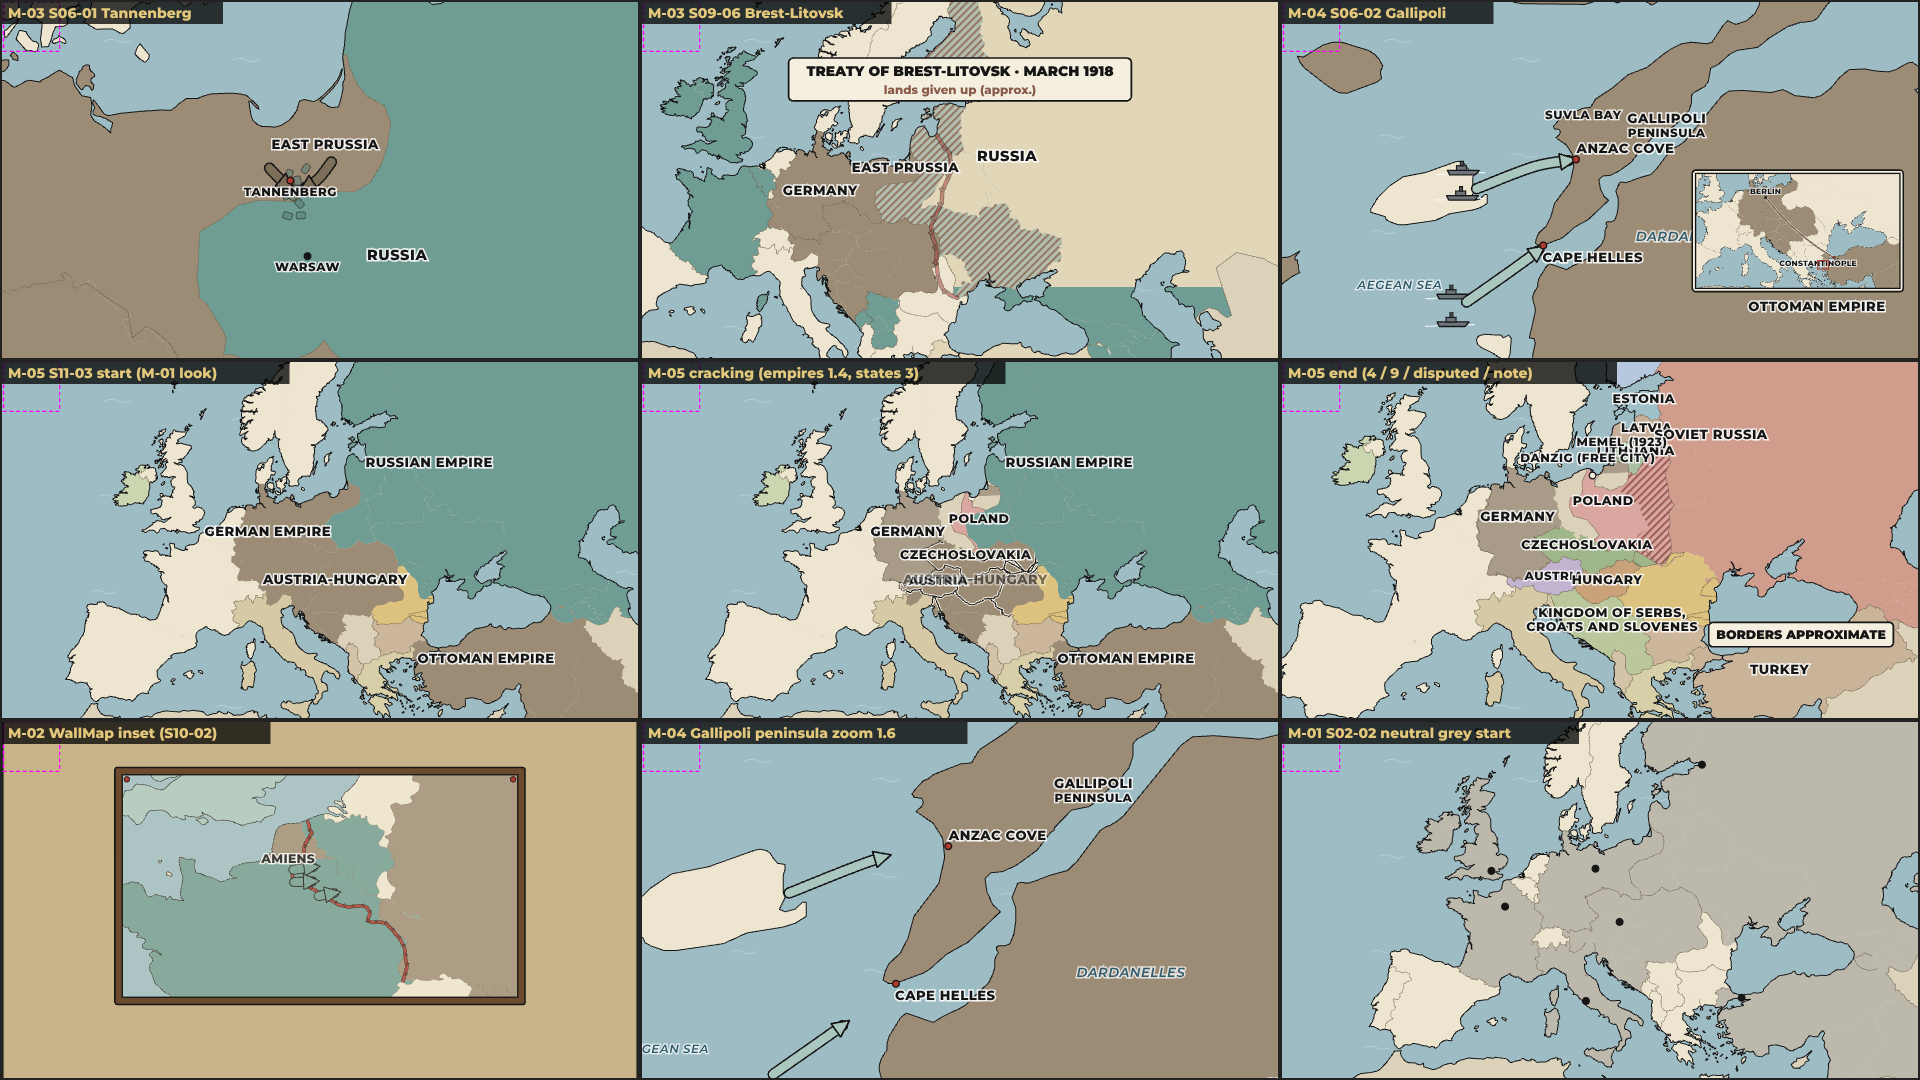
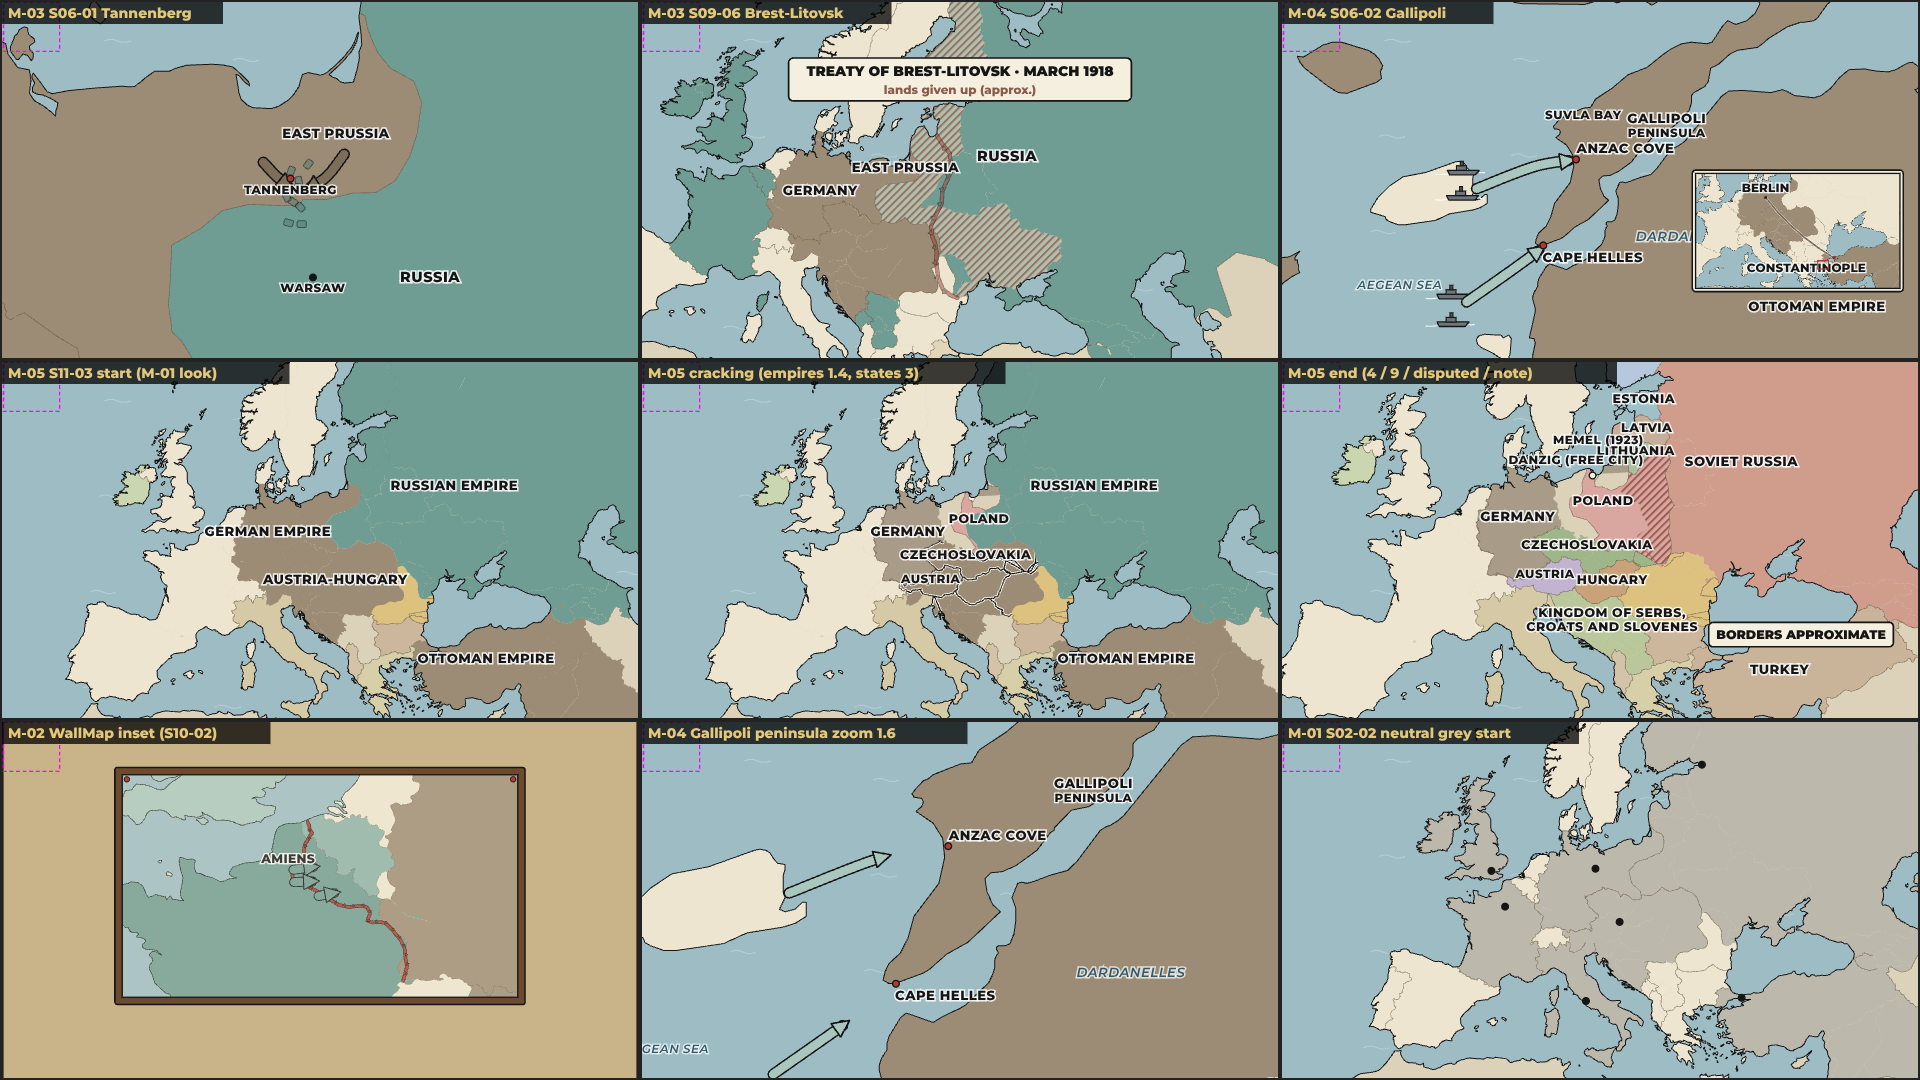
ep02-ww1: environments and narration work in progress
Claude-Session: https://claude.ai/code/session_01HvVEsYDgcgQobPUX4ZdqCo

diff --git a/the-human-story/episode-02-ww1/src/components/env/Trench.tsx b/the-human-story/episode-02-ww1/src/components/env/Trench.tsx
@@ -456,7 +456,7 @@ const MudView: React.FC<TrenchProps & {f: number; tone: Tone; time: TimeOfDay; w
       ))}
       {/* receding duckboard track */}
       {(() => {
-        const pts: [number, number, number][] = [[1500, 850, 1], [1300, 760, 0.8], [1180, 680, 0.62], [1000, 610, 0.48], [820, 560, 0.38], [700, 520, 0.3], [560, 490, 0.24], [460, 468, 0.2]];
+        const pts: [number, number, number][] = [[1500, 850, 1], [1260, 772, 0.8], [1340, 702, 0.64], [1090, 632, 0.5], [1160, 578, 0.4], [920, 530, 0.32], [980, 496, 0.26], [780, 468, 0.2]];
         return (
           <g>
             {pts.slice(0, -1).map((a, i) => {
@@ -631,7 +631,7 @@ const DugoutView: React.FC<TrenchProps & {f: number; tone: Tone}> = (p) => {
   const {f} = p;
   const D = DUGOUT;
   const breathe = 0.85 + 0.15 * noise1(f / 9, 4);
-  const tone = (c: string) => mixc(c, '#1A140E', 0.35);
+  const tone = (c: string) => mixc(c, '#1A140E', 0.25);
   return (
     <g>
       <rect x={-200} y={-200} width={W + 400} height={H + 400} fill={tone('#5A4632')} />
@@ -681,7 +681,7 @@ const DugoutView: React.FC<TrenchProps & {f: number; tone: Tone}> = (p) => {
         </radialGradient>
         <radialGradient id="dugout-dark" cx="0.62" cy="0.7" r="0.75">
           <stop offset="0.35" stopColor="#000" stopOpacity={0} />
-          <stop offset="1" stopColor="#000" stopOpacity={0.55} />
+          <stop offset="1" stopColor="#000" stopOpacity={0.45} />
         </radialGradient>
       </defs>
       <ellipse cx={D.candle[0]} cy={D.candle[1] - 40} rx={760} ry={560} fill="url(#dugout-glow)" />

diff --git a/the-human-story/episode-02-ww1/src/maps/MapsWW1.tsx b/the-human-story/episode-02-ww1/src/maps/MapsWW1.tsx
@@ -547,7 +547,7 @@ export const MapWesternFront: React.FC<WesternFrontProps> = (p) => {
                 <SafeLabel at={ts([3.5, 49.42])} dy={-26} text="THE AISNE" size={36} opacity={seg(marne, 0.75, 1)} />
               </g>
             )}
-            <CrackLabel at={ts([3.4, 48.45])} t={p.quickVictory ?? 0} id={`qv${idSuffix}`} />
+            <CrackLabel at={ts([3.75, 48.6])} t={p.quickVictory ?? 0} id={`qv${idSuffix}`} />
             {/* race to the sea */}
             {race > 0 &&
               X.RACE_PAIRS.map((pr, i) => {
@@ -610,7 +610,7 @@ export const MapWesternFront: React.FC<WesternFrontProps> = (p) => {
             {(p.labels ?? 1) > 0 && tz < 0.5 && (
               <g opacity={(p.labels ?? 1) * (1 - seg(tz, 0, 0.4))}>
                 <SafeLabel at={ts([5.05, 50.9])} text="BELGIUM" size={40} />
-                <SafeLabel at={ts([2.9, 48.25])} text="FRANCE" size={44} />
+                <SafeLabel at={ts([2.2, 47.9])} text="FRANCE" size={44} />
                 <SafeLabel at={ts([7.6, 50.3])} text="GERMANY" size={44} />
                 <SafeLabel at={ts([5.6, 52.3])} text="NETHERLANDS" size={36} />
                 {cities.map((n) => {

diff --git a/the-human-story/episode-02-ww1/src/components/VehiclesWW1.tsx b/the-human-story/episode-02-ww1/src/components/VehiclesWW1.tsx
@@ -13,11 +13,11 @@ const ink = C.ink;
 // ================================================================== V-01 touring car
 export const CAR_COLORS = {archduke: '#33503A', escort: '#2B2B30'};
 /**
- * Seat anchors (car-local px at s = 1, before dir/scale): place seated StickFigures here and draw them
- * BETWEEN <TouringCar layer="back"> and <TouringCar layer="front"> so the doors hide their legs.
- * y is the seat cushion (the figure's hip line).
+ * Seat anchors (car-local px at s = 1, facing right): the StickFigure (x, y) for a `seated` pose, i.e.
+ * figure x = car.x + seat.x * s * dir, figure y = car.y + seat.y * s, figure scale = s.  Draw the
+ * figures BETWEEN <TouringCar layer="back"> and <TouringCar layer="front"> so the doors hide their legs.
  */
-export const CAR_SEATS = {driver: {x: 95, y: -112}, rearLeft: {x: -150, y: -118}, rearRight: {x: -70, y: -118}};
+export const CAR_SEATS = {driver: {x: 95, y: -58}, rearLeft: {x: -150, y: -64}, rearRight: {x: -70, y: -64}};
 
 export type TouringCarProps = {
   x: number;

diff --git a/the-human-story/episode-02-ww1/src/maps/__preview__/SheetsWW1Env.tsx b/the-human-story/episode-02-ww1/src/maps/__preview__/SheetsWW1Env.tsx
@@ -34,7 +34,7 @@ export const WW1_VEH: Panel[] = [
   {title: 'V-01 touring car + seated passengers', el: (f) => (
     <g><Sky /><Street base={760} f={f} /><Ground y={760} color="#C9B48A" />
       <TouringCar x={900} y={900} dist={f * 6} f={f} layer="back" />
-      <Fig k="franzFerdinand" x={900 + CAR_SEATS.rearLeft.x} y={900 + CAR_SEATS.rearLeft.y + 112} f={f} pose={seated(f)} />
+      <Fig k="franzFerdinand" x={900 + CAR_SEATS.rearRight.x} y={900 + CAR_SEATS.rearRight.y} f={f} pose={seated(f)} /><Fig k="sophie" x={900 + CAR_SEATS.rearLeft.x} y={900 + CAR_SEATS.rearLeft.y} f={f} pose={seated(f)} /><Fig k="britSoldier1914" x={900 + CAR_SEATS.driver.x} y={900 + CAR_SEATS.driver.y} f={f} pose={seated(f)} />
       <TouringCar x={900} y={900} dist={f * 6} f={f} layer="front" />
     </g>)},
   {title: 'V-01 escort colour + turn-in 0.7', el: (f) => (

diff --git a/production/reports/handoffs/ep02-ww1/09-environment-designer.md b/production/reports/handoffs/ep02-ww1/09-environment-designer.md
@@ -1,0 +1,44 @@
+# Handoff — ep02-ww1 — 09 environment designer (Phase C: sets, maps, vehicles)
+
+- **From:** environment-designer
+- **To:** director (cc: video-editor, animator, quality-control)
+- **Date:** 2026-11-17
+- **Status:** AWAITING REVIEW
+
+## Deliverables
+- `the-human-story/episode-02-ww1/src/maps/MapsWW1.tsx`: **M-01** `MapEurope1914`, **M-02** `MapWesternFront` + `WesternFrontWallMap`, **M-03** `MapEasternFront`, **M-04** `MapGallipoli` (with inset), **M-05** `MapEurope1919` (crack, fade and morph from M-01), camera presets `CAM_1914`, `CAM_WF`, `CAM_EF`, `CAM_GP`, `CAM_1919`, and `SafeLabel` (drops labels in the logo zone).
+- `the-human-story/episode-02-ww1/src/maps/ww1.ts`: 1914 and 1919–23 state definitions (ordered add/subtract ops), hand-plotted 1914 border lines, Western Front lines (1915, March 1918, April 1918, 11 Nov 1918), Somme creep, Tannenberg, Brest-Litovsk, Gallipoli places, palette.
+- `the-human-story/episode-02-ww1/src/maps/StateMap.tsx`: clip-path state renderer (`StateLayer`), border mesh, sampling and colour helpers.
+- `the-human-story/episode-02-ww1/src/maps/IconsWW1.tsx`: train, ship, envelope, stopwatch, 48-hour dial, flip calendar, tick list, marcher, plain red flag, crown, book card.
+- `the-human-story/episode-02-ww1/src/maps/data/gallipoli-land-10m.json`: Natural Earth 1:10m coast clipped to the Dardanelles.
+- `the-human-story/episode-02-ww1/src/components/env/Trench.tsx`: **E-01** `Trench` (variants a–g), `TrenchForeground`, layout constants `TRENCH`, `MUD`, `NML`, `DUGOUT`, `CUTAWAY`, and props (`Rat`, `Lantern`, `TrenchLadder`, `BoxPeriscope`, `WireCoils`, `Sandbags`, `MistBands`, `HorizonFlashes`, `DustFall`, `WoodenCross`, `Football`).
+- `the-human-story/episode-02-ww1/src/components/env/Dominoes.tsx`: **E-08** `DominoRow` (blocks) and `ChalkDominoes` (board version, SARAJEVO glow).
+- `the-human-story/episode-02-ww1/src/components/VehiclesWW1.tsx`: **V-01** `TouringCar` (+ `CAR_COLORS.escort`, `CAR_SEATS`, `EmptyBackSeat`), **V-02** `RhomboidTank` (+ `TANK_DEPTH`), **V-03** `Periscope`, `TorpedoWake`, `WaterColumn`.
+- `the-human-story/episode-02-ww1/src/components/env/Remembrance.tsx`: **E-S1** `PoppyWreath`, `PoppyPetals`, plus `TownWarMemorial` (stone cross, "1914–1918").
+- Small, backward-compatible engine edits: `GeoMap` gains an optional `layers` slot (projection-space fills under the coastline); `WallMap` passes `layers`/`borders` through; `geo.ts` adds the `gallipoli` projection and exports `POLAND_WEST_CHAIN`.
+- Preview sheets: `src/maps/__preview__/SheetsWW1.tsx`, `SheetsWW1Env.tsx` (registered in the preview root `src/maps/__preview__/Root.tsx`; the episode `Root.tsx` is untouched).
+- Stills: `production/environments/ep02-ww1/maps-sheet-A.png`, `maps-sheet-B.png`, `maps-sheet-C.png`, `sheet-Env.png`, `sheet-Vehicles.png`.
+- Notes: `production/environments/ep02-ww1/map-notes.md` (APIs, keyable values, shots, sources and simplifications).
+
+## Summary
+All section-B MUST items (E-01 a–g, E-08 both versions, M-01 to M-05 with the M-02 wall-map inset, V-01 with the escort colour and the empty-back-seat close-up, V-02, V-03) and the approved SHOULD E-S1 are built. Every animation is a pure function of `f` plus progress props, so the editor keys it from beats. The historical maps reuse Natural Earth modern borders wherever they match the 1914 or 1923 line and add only the changed lines by hand. Each state is an independent opaque shape (clip paths), so states fade, hatch and pulse without seams. Approximate borders carry "approx." or "BORDERS APPROXIMATE", as the research asks. The ep01 rules hold: Danzig Free City, Memel 1923, the Saar and the Rhineland not drawn as lost. Labels are ≥ 36 px and are dropped automatically inside the logo zone. Flags are plain, with no emblem.
+
+## Changes to inputs / assumptions
+- S11-05: the existing `Memorial` is the ep01 candle wall, so I added a simple `TownWarMemorial` (stone cross) for the wreaths. No new asset request was needed.
+- The Western Front line plots at 660 km once smoothed. On-screen text must say "about 700 km" (research 4.7), never the plotted figure.
+- Brest-Litovsk: Kars/Ardahan/Batum are not drawn. Eupen-Malmedy, Fiume and Zadar are not drawn either (too small at this scale). All are recorded in map-notes §2.
+- The touring car's pennants are plain yellow with a black band (no emblem).
+
+## Blockers / issues
+- [minor] Rendering: SVG masks failed in headless Chrome once a frame held about a dozen large masks, so I replaced them with clip paths. M-05 still uses one mask per empire, only while that empire is cracking. Its sheet panel rendered correctly.
+- [minor] Two maps of the **same kind with the same camera** on screen at once need different `idSuffix` values. Crossfades between different cameras are safe.
+- [minor] Map frames were not benchmarked (lean mode). Expect them to be slower than character shots.
+- [info] Stills only. No motion test renders (lean mode).
+
+## Requests for other agents
+- video-editor: compose shots from map-notes §3. Put the S01-02 street → map MATCH and the S04-04 `trenchZoom` → E-01 MATCH inside one shot. Use `TrenchForeground` after the figures for the S05-02 knee-deep water. Draw seated figures between `TouringCar layer="back"` and `layer="front"` at `CAR_SEATS`.
+- animator: the trench layout is `TRENCH.firestepY` 760 (looking over) and `TRENCH.floorY` 878 (in cover) at figure scale 1. Seated car passengers use the `seated` pose at `CAR_SEATS`.
+- quality-control: check the map borders against map-notes §2 and the sheet stills.
+
+## Recommended next action
+- Director: route to the video editor for scene assembly (S01–S11). Run a QC pass on the five sheet stills and map-notes.
